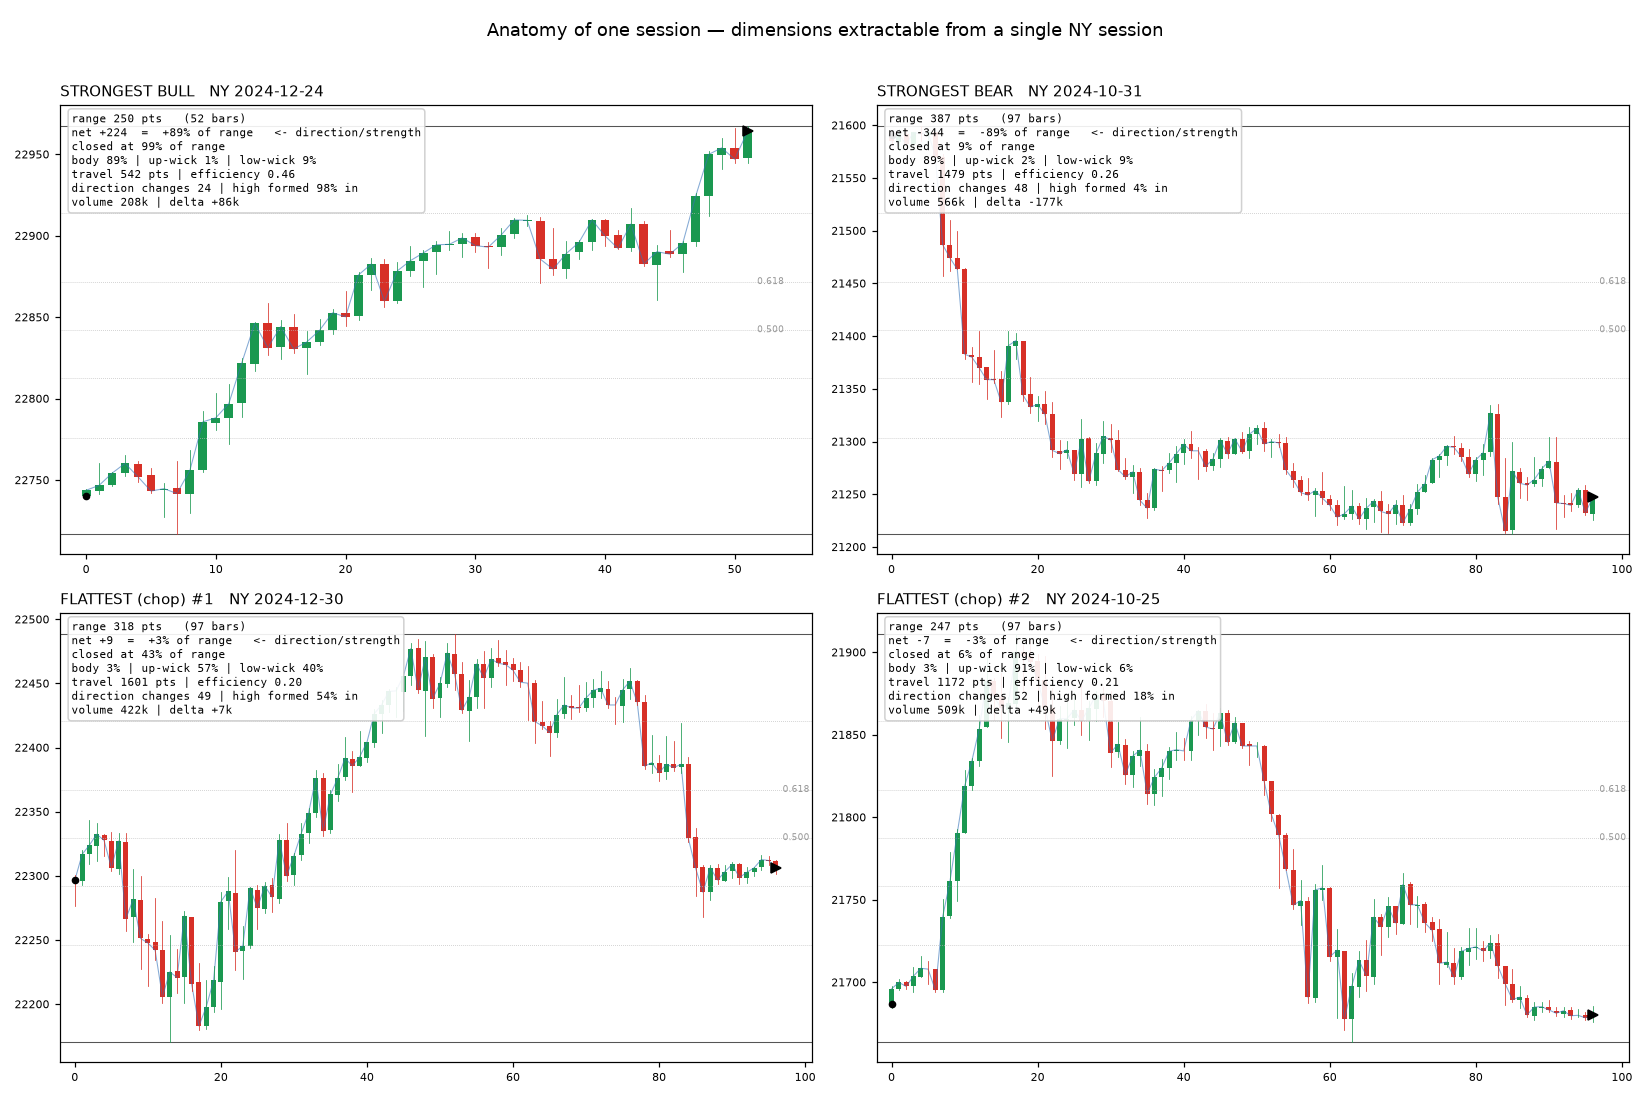
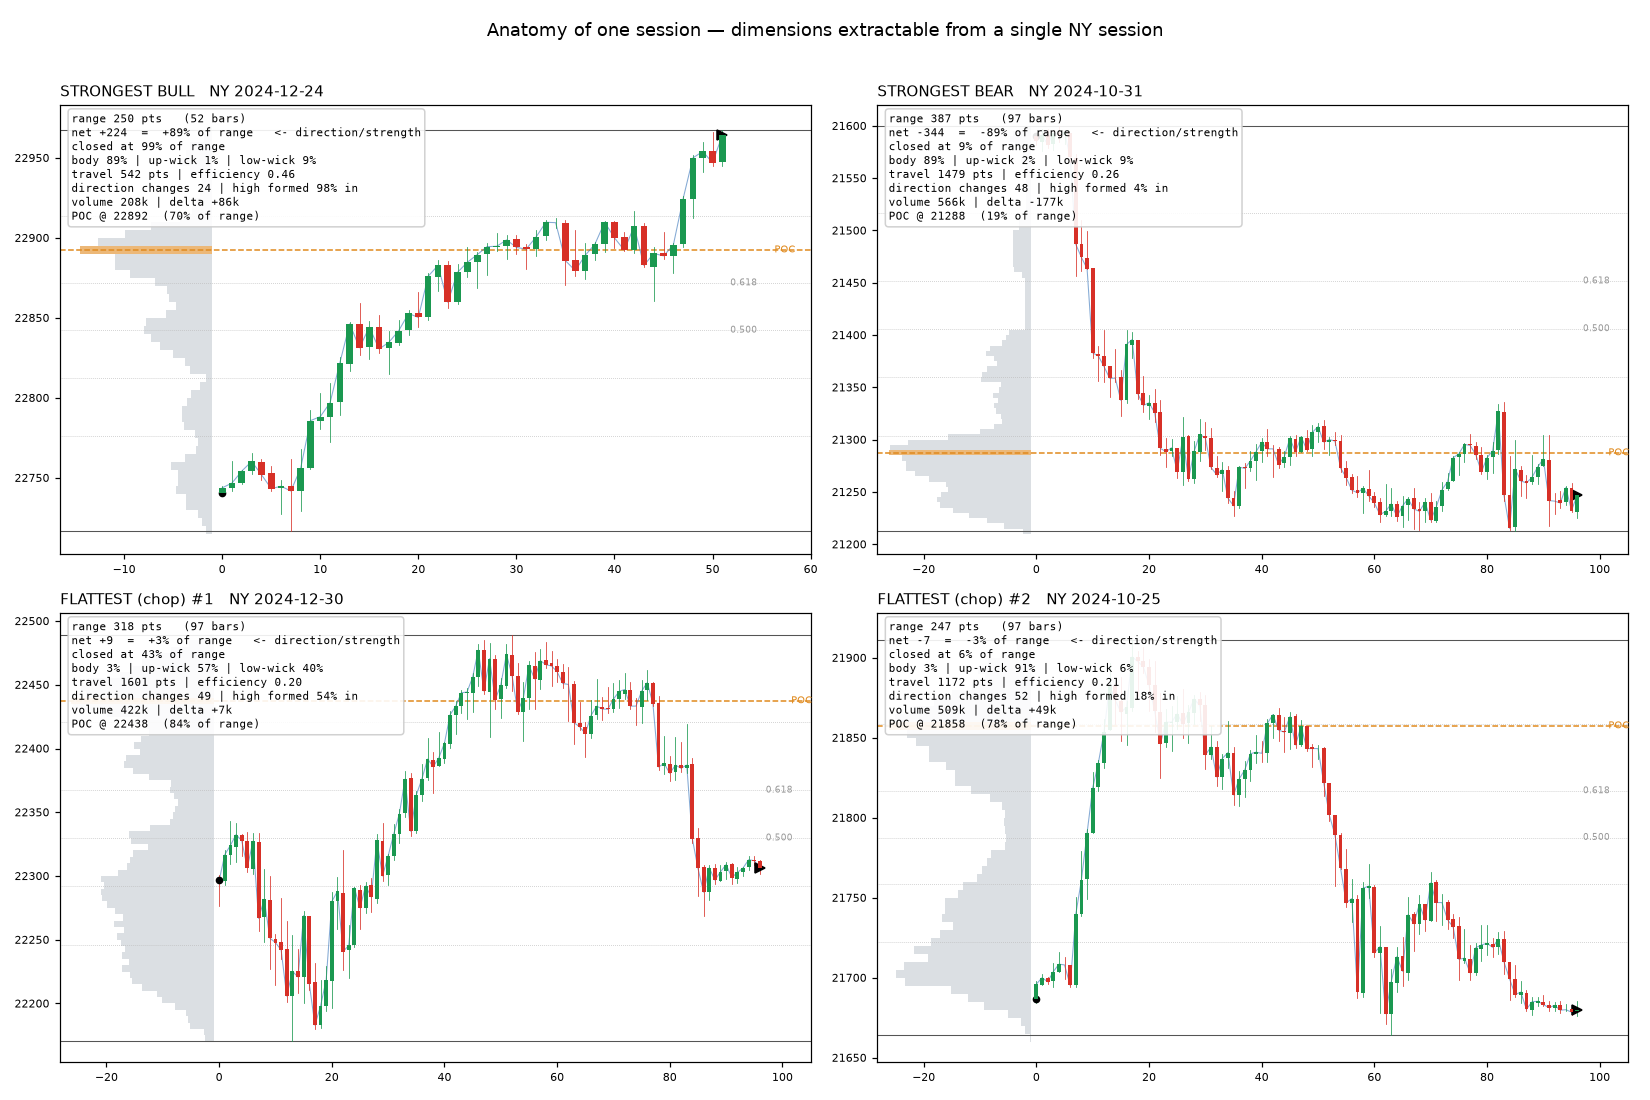
Layer one: add per-session volume profile + POC to session anatomy
Draws a horizontal volume histogram (session low->high, overlap-weighted via
_profile_for) with the POC row highlighted and a POC line, on the same anatomy
PNG. Adds POC location (% of range) as another atomic session dimension — where
the session found value, independent of how far it traveled.

diff --git a/experiments/layer1/session_anatomy.py b/experiments/layer1/session_anatomy.py
@@ -9,6 +9,7 @@ and the flattest — so we can see the raw features a regime could be built from
 from __future__ import annotations
 
 import argparse
+import math
 import os
 import sys
 
@@ -23,6 +24,22 @@ HERE = os.path.dirname(os.path.abspath(__file__))
 REPO = os.path.dirname(os.path.dirname(HERE))   # experiments/layer1 -> repo root
 sys.path.insert(0, REPO)
 from src.indicators.sessions import session_instances  # noqa: E402
+from src.indicators.volume_profile import _profile_for  # noqa: E402 (overlap-weighted rows)
+
+
+def profile(win, row_size=5.0):
+    """Session volume profile (same overlap-weighted math the chart uses).
+    -> (base, row_size, binvol[n_rows], poc_idx, poc_price)."""
+    highs = win["high"].values.astype(float)
+    lows = win["low"].values.astype(float)
+    vols = win["volume"].values.astype(float)
+    lo, hi = float(lows.min()), float(highs.max())
+    base = math.floor(lo / row_size) * row_size
+    top = math.ceil(hi / row_size) * row_size
+    n_rows = max(1, int(round((top - base) / row_size)))
+    binvol = _profile_for(highs, lows, vols, range(len(win)), base, row_size, n_rows)
+    poc_idx = int(binvol.argmax())
+    return base, row_size, binvol, poc_idx, base + (poc_idx + 0.5) * row_size
 
 
 def dims(win):
@@ -64,23 +81,40 @@ def plot_session(ax, win, d, title):
             ax.text(n - 0.5, y, f" {f:.3f}", fontsize=6, color="#999", va="center")
     ax.axhline(d["H"], color="#555", lw=0.7)
     ax.axhline(d["L"], color="#555", lw=0.7)
+
+    # volume profile: horizontal histogram off the left edge, POC line across
+    base, rs, binvol, poc_idx, poc_price = profile(win)
+    maxv = float(binvol.max()) or 1.0
+    pw = n * 0.26                                                # profile width (x units)
+    for i in range(len(binvol)):
+        w = binvol[i] / maxv * pw
+        if w <= 0:
+            continue
+        ax.add_patch(Rectangle((-pw - 1 + (pw - w), base + i * rs), w, rs,
+                               color="#e08a1e" if i == poc_idx else "#9aa6b0",
+                               alpha=0.6 if i == poc_idx else 0.35, lw=0, zorder=1))
+    ax.axhline(poc_price, color="#e08a1e", lw=1.0, ls="--", zorder=2)
+    ax.text(n + 4, poc_price, " POC", color="#e08a1e", fontsize=6.5, va="center")
+
     ax.plot(range(n), c, color="#3573b9", lw=0.7, alpha=0.6)     # close path (shows travel)
     for i in range(n):
         up = c[i] >= o[i]
         cc = "#1a9850" if up else "#d73027"
         ax.plot([i, i], [l[i], h[i]], color=cc, lw=0.5)
-        ax.add_patch(Rectangle((i - 0.34, min(o[i], c[i])), 0.68, abs(c[i] - o[i]) or 0.01, color=cc, lw=0))
+        ax.add_patch(Rectangle((i - 0.34, min(o[i], c[i])), 0.68, abs(c[i] - o[i]) or 0.01, color=cc, lw=0, zorder=3))
     ax.plot(0, d["O"], "o", color="#000", ms=4)                  # open
     ax.plot(n - 1, d["C"], ">", color="#000", ms=6)             # close
-    ax.set_xlim(-2, n + 4)
+    ax.set_xlim(-pw - 3, n + 8)
 
+    poc_pos = (poc_price - d["L"]) / d["rng"]
     txt = (f"range {d['rng']:.0f} pts   ({d['nbars']} bars)\n"
            f"net {d['net']:+.0f}  =  {d['net_pct']:+.0%} of range   <- direction/strength\n"
            f"closed at {d['close_pos']:.0%} of range\n"
            f"body {d['body_pct']:.0%} | up-wick {d['up_wick']:.0%} | low-wick {d['low_wick']:.0%}\n"
            f"travel {d['travel']:.0f} pts | efficiency {d['path_eff']:.2f}\n"
            f"direction changes {d['swings']} | high formed {d['t_high']:.0%} in\n"
-           f"volume {d['vol']/1e3:.0f}k | delta {d['delta']/1e3:+.0f}k")
+           f"volume {d['vol']/1e3:.0f}k | delta {d['delta']/1e3:+.0f}k\n"
+           f"POC @ {poc_price:.0f}  ({poc_pos:.0%} of range)")
     ax.text(0.015, 0.985, txt, transform=ax.transAxes, va="top", ha="left", fontsize=7.3,
             family="monospace", bbox=dict(boxstyle="round", fc="white", ec="#ccc", alpha=0.9))
     ax.set_title(title, fontsize=10, loc="left")